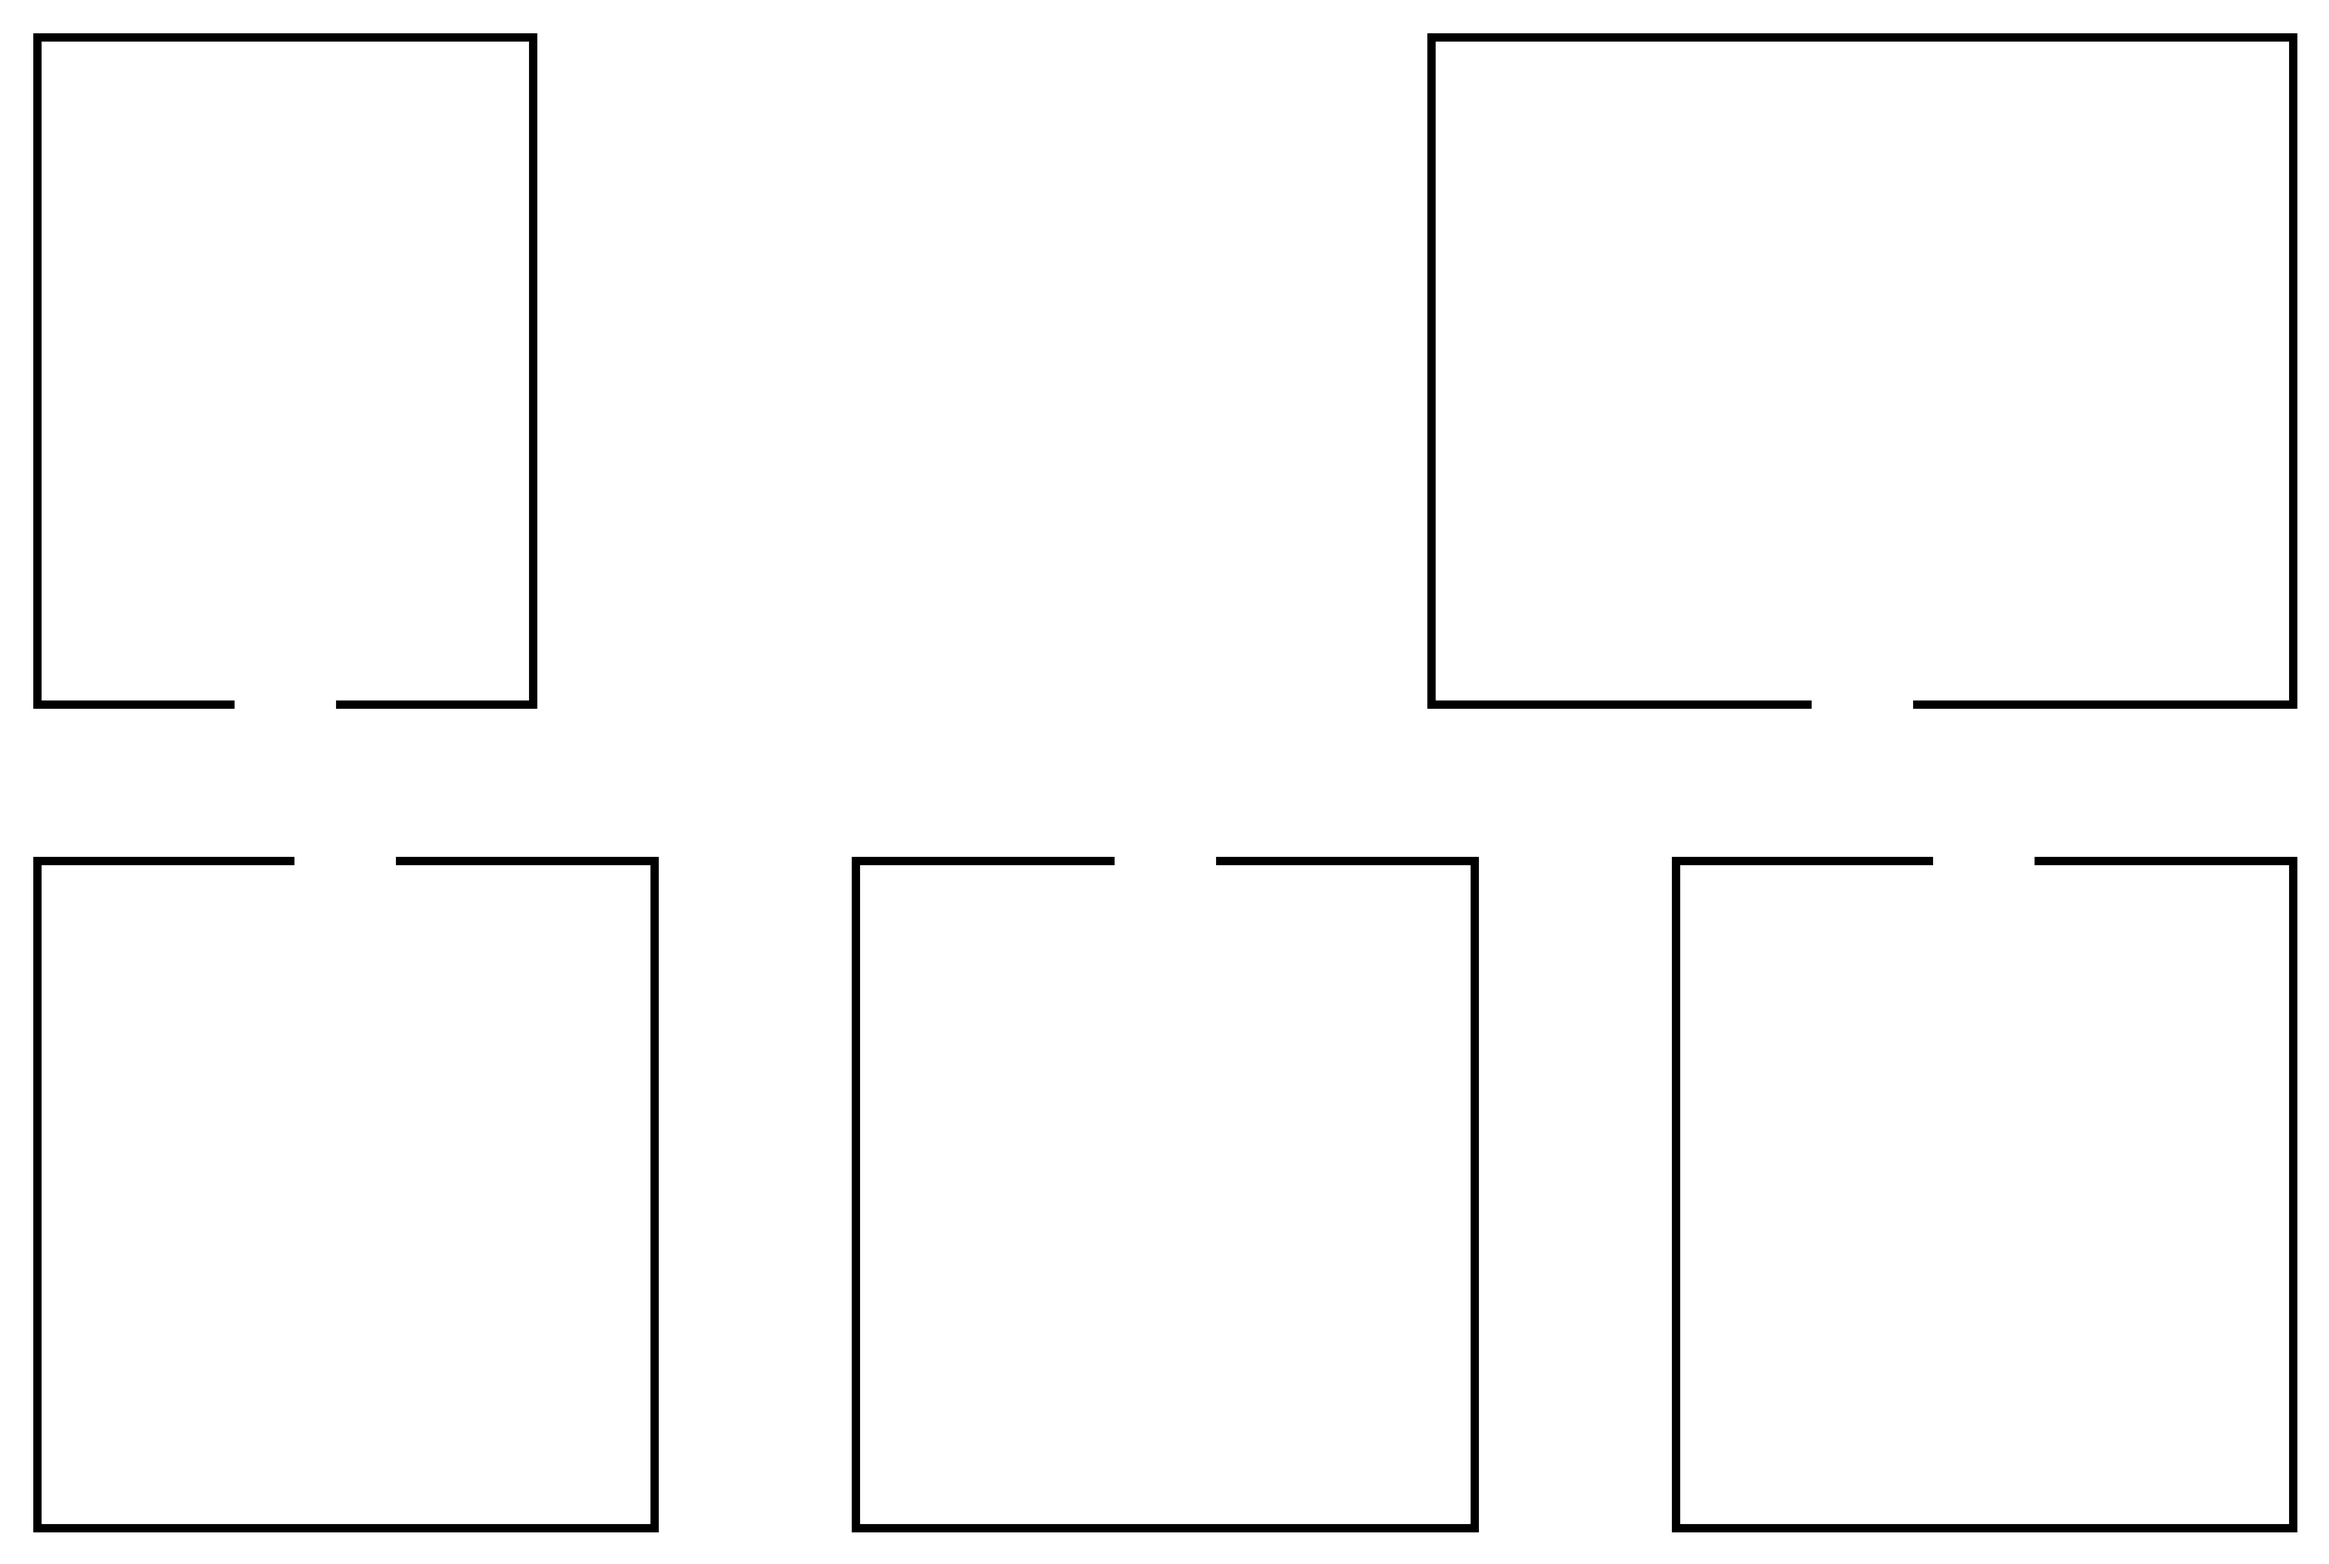
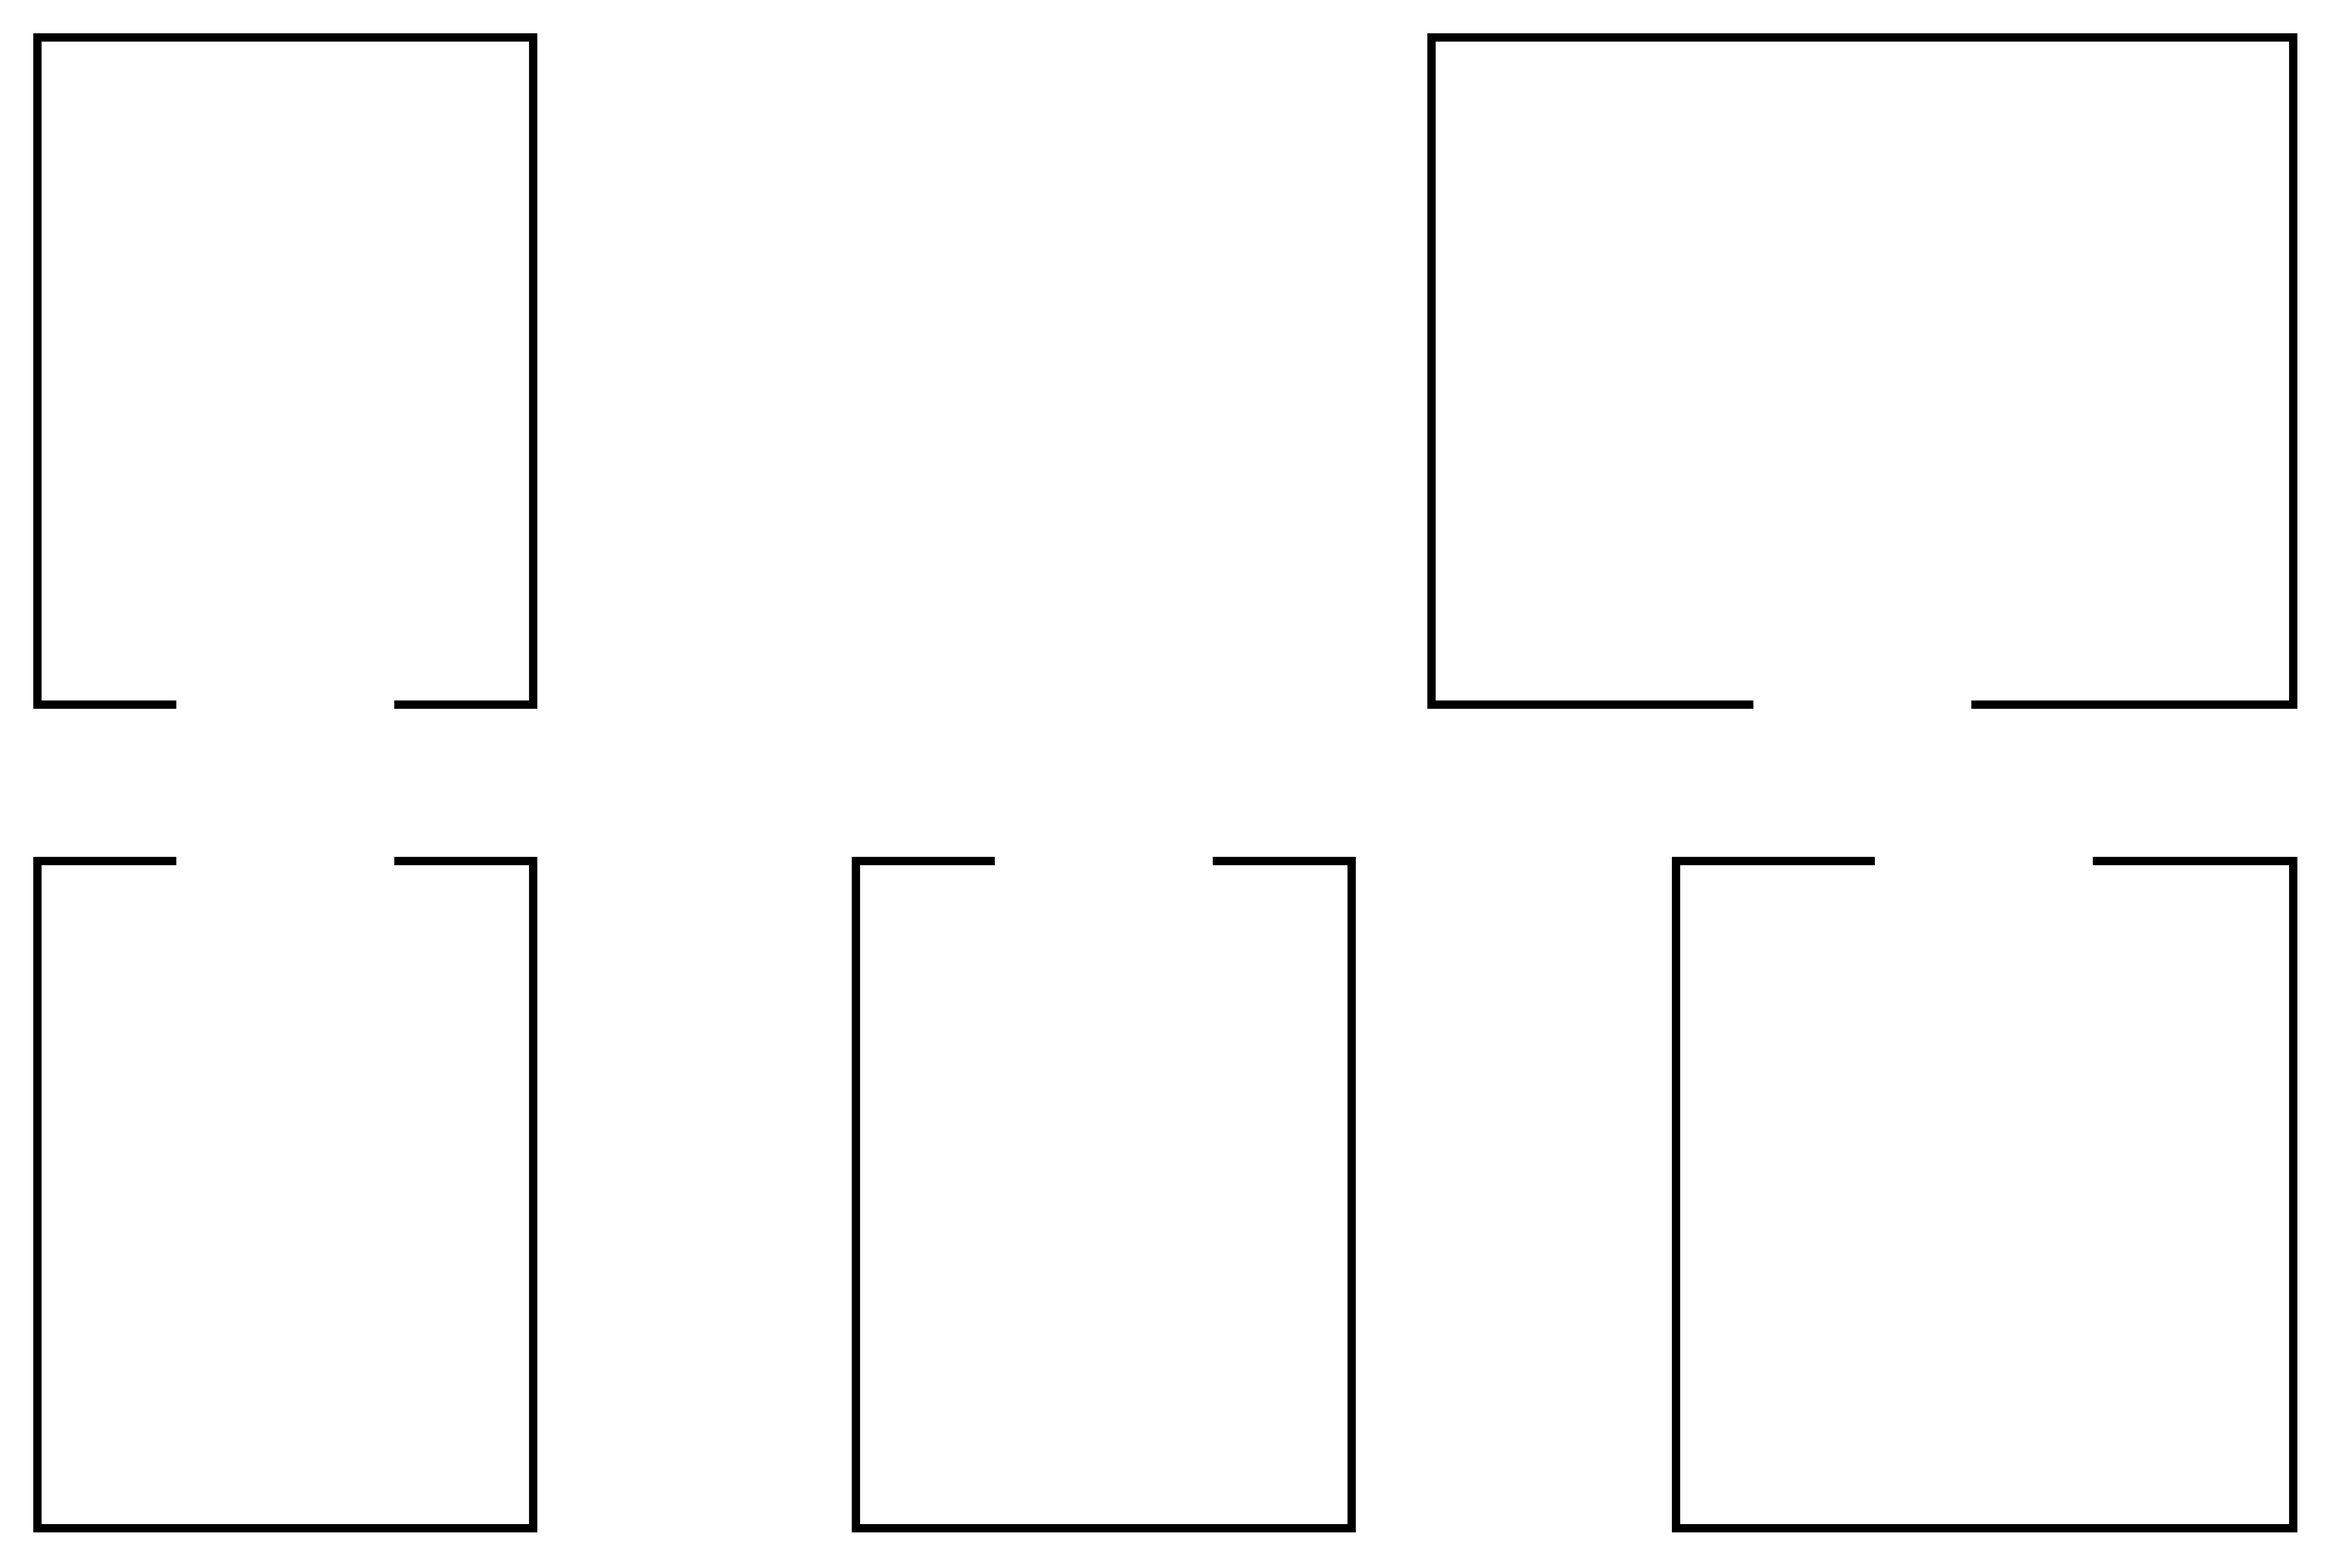
updated poster list doors

diff --git a/make_session_hall.py b/make_session_hall.py
@@ -32,6 +32,7 @@ SESSION_ROWS = 6                    # rows of chairs in each session room
 SESSION_SEATS_PER_ROW = 10          # chairs per row (split by a centre aisle)
 SESSION_CHAIR_SCALE = 2             # chair size in the session rooms (whole number)
 SESSION_STAGE_DEPTH = 64            # raised stage (curtains, screen, podium) across the top of each room
+SESSION_DOOR_WIDTH = 72             # doorway of each session room (and the matching gap in the hall wall)
 SESSION_ROOM_HEIGHT = 270           # art px (taller = more room for seats + sign; shorter = bigger main hall)
 SESSION_SIGN_TEXT_SIZE = 20         # long names wrap onto extra lines automatically
 SESSION_PLANTS = [(0.05, 0.86)]     # bottom-left corner
@@ -49,6 +50,9 @@ AUDIENCE_CHAIR_SCALE = 2            # chair size (whole number)
 AUDIENCE_GAP = 40                   # space between the stage front and the first row
 STAGE_ROOM_CARPET = ("#9e4a5a", "#a8566a", "#843b4b")   # stripe 1, stripe 2, edge
 STAGE_ROOM_SIDE_DOORS = True        # doors in the left/right walls as well as the front
+STAGE_ROOM_DOOR_WIDTH = 150         # front doorway (towards the lobby)
+STAGE_ROOM_SIDE_DOOR_WIDTH = 90     # side doorways
+HALL_ENTRANCE_WIDTH = 120           # main entrance in the bottom wall of the hall
 STAGE_ROOM_PLANTS = [(0.05, 0.93), (0.95, 0.93)]
 STAGE_ROOM_LAMPS = [(0.04, 0.62), (0.96, 0.62)]
 
@@ -86,7 +90,7 @@ PROGRAMME_FILE = "programme.md"
 # row by row (left -> right), then the right grid.
 TABLE_LABELS = ["Jobs in labs vs. academia", "Postdocs in Canada vs. USA",
                 "Canadian ESO collaboration", "Power/pitfalls of AI", "Pokémon",
-                "Science communication", "CASCA EIC", "Open table 3", "Open table 2", "Open table 1"]
+                "Science communication", "CASCA Climate", "Open table 3", "Open table 2", "Open table 1"]
 # Optional per-table name-plate colours (default slate blue)
 TABLE_LABEL_COLOURS = {"Pokémon": "#c0392b"}
 TABLE_POSITIONS = None              # None = grid layout; or one (x, y) hall fraction per table
@@ -104,6 +108,7 @@ QUIET_ROOM_NOTE = "shhh..."         # small sign under the title ("" for none)
 QUIET_ROOM_SIDE = "left"            # which table grid it sits in: "left" or "right"
 QUIET_ROOM_CARPET = ("#cfe3d0", "#d9ebd9", "#a9c9ab")
 QUIET_ROOM_DOOR = "right"           # wall with the door: "top", "bottom", "left" or "right"
+QUIET_ROOM_DOOR_WIDTH = 56
 QUIET_ROOM_FURNITURE = [            # (kind, x, y) fractions of the quiet room
     ("armchair", 0.25, 0.38), ("armchair", 0.62, 0.38), ("armchair", 0.25, 0.56),
     ("bookshelf", 0.2, 0.9), ("plant", 0.72, 0.84),
@@ -266,7 +271,7 @@ def quiet_room(cell, cell_size, areas):
     x0, y0, x1, y1 = box
     k.striped_rug(x0, y0, x1, y1, *QUIET_ROOM_CARPET)
     along = {"top": cx, "bottom": cx, "left": cy, "right": cy}[QUIET_ROOM_DOOR]
-    k.room_walls(x0, y0, x1, y1, [(QUIET_ROOM_DOOR, along, 36)])
+    k.room_walls(x0, y0, x1, y1, [(QUIET_ROOM_DOOR, along, QUIET_ROOM_DOOR_WIDTH)])
     for kind, fx, fy in QUIET_ROOM_FURNITURE:
         k.furniture(kind, *frac(box, fx, fy))
     title_h = k.sign_height(QUIET_ROOM_LABEL, 10)
@@ -280,7 +285,7 @@ def session_room(i, name, box):
     c1, c2, edge, accent = k.ROOM_COLOURS[(i - 1) % len(k.ROOM_COLOURS)]
     cx = (x0 + x1) // 2
     k.striped_rug(x0, y0, x1, y1, c1, c2, edge)
-    k.room_walls(x0, y0, x1, y1, [("bottom", cx, 36)])
+    k.room_walls(x0, y0, x1, y1, [("bottom", cx, SESSION_DOOR_WIDTH)])
     k.DECOR_SCALE = DECOR_SCALE
     stg = (x0 + 12, y0 + k.T + 6, x1 - 12, y0 + k.T + 6 + SESSION_STAGE_DEPTH)
     k.stage(*stg, title=None, podium_offset=(x1 - x0) // 4, accent=accent)
@@ -314,10 +319,10 @@ def stage_room(areas):
     x0, y0, x1, y1 = STAGE_ROOM
     cx = (x0 + x1) // 2
     k.striped_rug(x0, y0, x1, y1, *STAGE_ROOM_CARPET)
-    doors = [("bottom", cx, 70)]
+    doors = [("bottom", cx, STAGE_ROOM_DOOR_WIDTH)]
     if STAGE_ROOM_SIDE_DOORS:
         dy = round(y0 + (y1 - y0) * 0.8)
-        doors += [("left", dy, 40), ("right", dy, 40)]
+        doors += [("left", dy, STAGE_ROOM_SIDE_DOOR_WIDTH), ("right", dy, STAGE_ROOM_SIDE_DOOR_WIDTH)]
     k.room_walls(x0, y0, x1, y1, doors)
     for fx, fy in STAGE_ROOM_LAMPS:
         k.furniture("floor_lamp", *frac(STAGE_ROOM, fx, fy))
@@ -373,8 +378,8 @@ def main():
     hx0, hy0, hx1, hy1 = HALL
     hcx = (hx0 + hx1) // 2
     k.striped_rug(hx0, hy0, hx1, hy1, *k.LOUNGE_RUG)
-    doors = [("top", (b[0] + b[2]) // 2, 40) for _, b in ROOMS.values()]
-    k.room_walls(hx0, hy0, hx1, hy1, doors + [("bottom", hcx, 80)])
+    doors = [("top", (b[0] + b[2]) // 2, SESSION_DOOR_WIDTH + 8) for _, b in ROOMS.values()]
+    k.room_walls(hx0, hy0, hx1, hy1, doors + [("bottom", hcx, HALL_ENTRANCE_WIDTH)])
 
     k.DECOR_SCALE = HALL_DECOR_SCALE
     # extra hall decoration first, so furniture draws on top

diff --git a/make_poster_hall.py b/make_poster_hall.py
@@ -37,7 +37,7 @@ ROOM_COLUMNS = 3                    # rooms per row (the foyer takes one cell)
 SHOW_FOYER = True                   # foyer (networking area) takes the middle cell of a row
 FOYER_ROW = "top"                   # "top" = in the first row of rooms, "bottom" = in the last row
 SIGN_TEXT_SIZE = 20                 # room-sign font size (art pixels)
-DOOR_WIDTH = 60                     # art pixels
+DOOR_WIDTH = 130                    # doorway of each poster room (art pixels; 100 = 500 px)
 
 # Room size follows the posters: each room gets a grid of poster spots spaced
 # POSTER_SPACING apart, plus margins; rooms with more posters are bigger.
